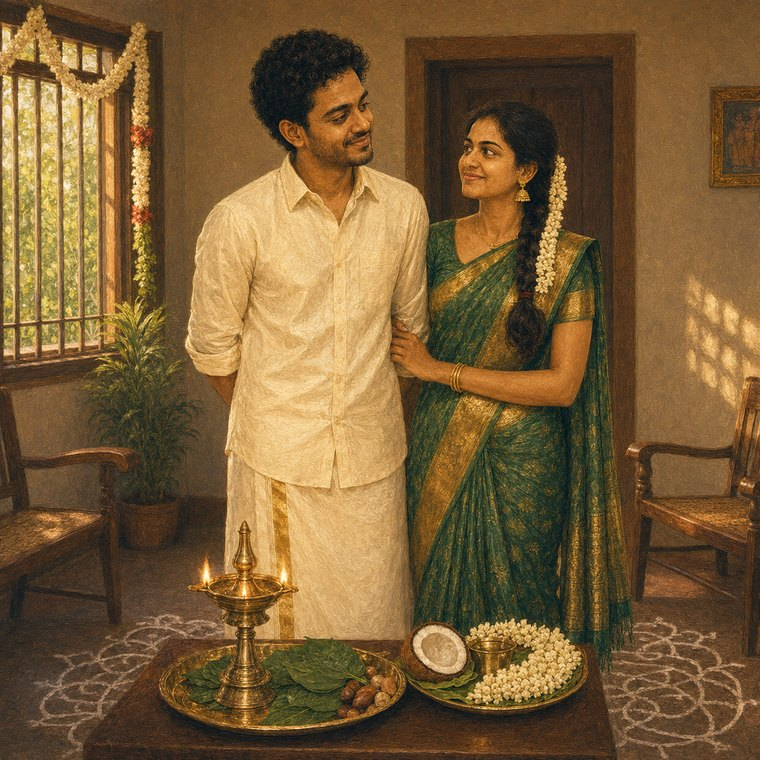
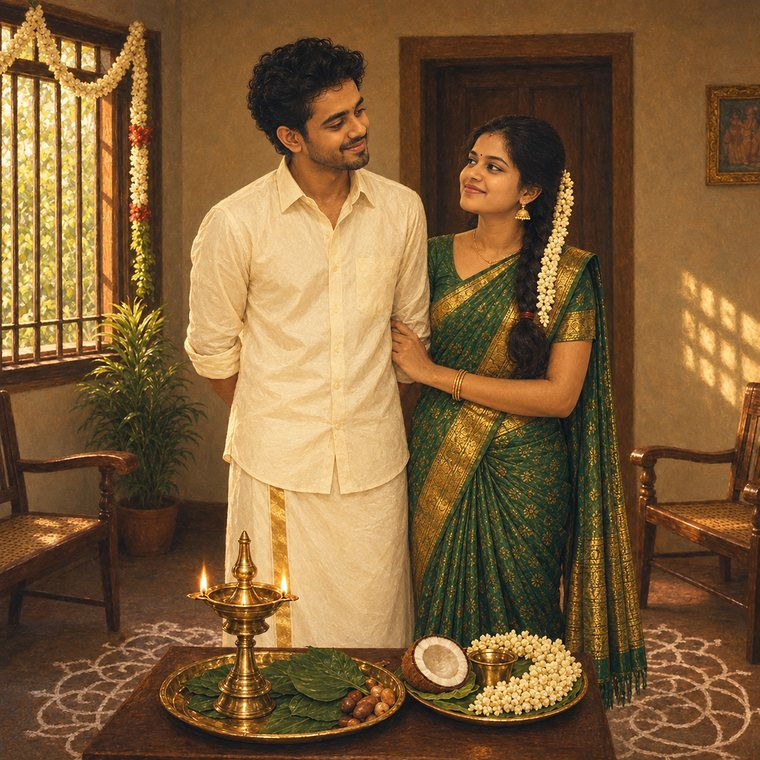
New chapter photos; engagement garland, reception bouquet and disco ball relics; slower reading star

diff --git a/index.html b/index.html
@@ -859,25 +859,30 @@
 
 <script>
 // ===================================================================== story
+// Bump this whenever a chapter photograph is replaced. The file names stay
+// the same, so without it browsers (and the local test server) keep showing
+// the copy they already have.
+const PHOTO_V = '2026-09-30b';
+
 const CHAPTERS = [
   { id:'2021-college',    yr:'2021',             t:'Where it started',
     c:'College of Engineering, Guindy. Friends first, and in no hurry about it.', n:2,
     alt:'Shiva and Meena sitting together on the steps of the red brick College of Engineering building in Guindy, books open on their laps, laughing at something between them.' },
   { id:'2022-two-cities', yr:'January\u00a02022',  t:'Two cities',
     c:'Him to Chennai, her to Bengaluru. The overnight train out of MGR\u00a0Central, and every excuse to be on it.', n:2,
-    alt:'Meena on the platform at Chennai MGR Central with the overnight train to Bengaluru behind her, bag in hand.' },
+    alt:'At Chennai MGR Central, Meena standing in the doorway of the overnight train to Bengaluru with her backpack and suitcase, smiling down at Shiva on the platform.' },
   { id:'2023-she-said-yes', yr:'2023',           t:'She said yes',
     c:'It took a while to ask. It took her less time to answer.', n:2,
     alt:'The two of them at a rooftop table at dusk, string lights and the city skyline behind, Shiva holding out a small bunch of flowers.' },
   { id:'2024-long-way',   yr:'2024',             t:'The long way round',
     c:'Calls that ran past midnight, video calls left on while we worked, weekends that turned up unannounced.', n:3,
-    alt:'Shiva and Meena walking through a lit shopping street in Bengaluru in the evening, drinks in hand and bags between them.' },
+    alt:'Three scenes: Meena laughing in surprise on a late-night video call, Shiva grinning on the other end of it, and the two of them walking through a lit Bengaluru shopping street that weekend, bubble tea and shopping bags in hand.' },
   { id:'2025-coming-home',yr:'2025',             t:'Coming home',
     c:'She moved back to Chennai. This time there were families to convince, and we did it side by side.', n:2,
     alt:'The two of them on a Chennai terrace in the afternoon, washing lines and palm trees behind, standing close and looking at each other.' },
   { id:'2026-yes',        yr:'2026',             t:'Both families said yes',
     c:'It wasn\u2019t easy. It was worth every difficult conversation.', n:2,
-    alt:'Shiva and Meena in traditional dress beside a lit brass lamp, a tray of offerings in front of them.' },
+    alt:'Shiva in a cream shirt and veshti and Meena in a green and gold silk saree with jasmine in her hair, standing together at home beside a lit brass lamp and trays of betel leaves, coconut and flowers.' },
   { id:'2026-engagement', yr:'18\u00a0June\u00a02026', t:'The engagement',
     c:'A ring, her left hand, and both families in one room at last.', n:2,
     alt:'At the engagement, Shiva slipping a ring onto Meena\u2019s left hand, both of them in garlands, she in a dark green and gold kanjivaram and he in a dusty rose kurta.' },
@@ -907,7 +912,7 @@ CHAPTERS.forEach((ch, i) => {
   relics.className = 'relics';
   for (let k = 1; k <= ch.n; k++) {
     const img = document.createElement('img');
-    img.src = 'assets/story/' + ch.id + '-relic' + k + '.png';
+    img.src = 'assets/story/' + ch.id + '-relic' + k + '.png?v=' + PHOTO_V;
     img.alt = '';
     img.loading = 'lazy';
     // A relic that hasn't been drawn yet simply isn't there, rather than
@@ -935,7 +940,7 @@ CHAPTERS.forEach((ch, i) => {
   const inside = ch.empty
     ? '<div class="shot blank" role="img" aria-label="An empty frame, waiting. ' + ch.empty + '">' +
         '<span aria-hidden="true">' + ch.empty + '</span></div>'
-    : '<div class="shot"><img src="assets/story/' + ch.id + '.jpg" width="760" height="760"' +
+    : '<div class="shot"><img src="assets/story/' + ch.id + '.jpg?v=' + PHOTO_V + '" width="760" height="760"' +
         ' alt="' + ch.alt.replace(/"/g, '&quot;') + '"' +
         (eager ? ' fetchpriority="high">' : ' loading="lazy" decoding="async">') + '</div>';
   plate.innerHTML =
@@ -1099,10 +1104,12 @@ hangs.forEach((h, i) => {
 // changes size. Every line gets its own star; they share one looping clock,
 // each lit only in its own slot, so the sequence can run forever without any
 // timers to keep in step.
-const STAR_SPEED = 190;      // px per second along a line
-const STAR_MIN = 0.7;        // seconds, even for a short line
-const STAR_GAP = 0.18;       // seconds between one line and the next
-const STAR_REST = 1.8;       // seconds of stillness before it starts over
+// Paced to reading, not to spectacle: roughly the speed an eye moves along a
+// line, so a guest can follow the star word by word.
+const STAR_SPEED = 105;      // px per second along a line
+const STAR_MIN = 1.4;        // seconds, even for a short line
+const STAR_GAP = 0.35;       // seconds between one line and the next
+const STAR_REST = 2.6;       // seconds of stillness before it starts over
 
 function textLines(el, base) {
   const rows = [];
@@ -1143,7 +1150,8 @@ function buildStars(i) {
     slots.push([t, t + d]);
     t += d + STAR_GAP;
   }
-  const total = t - STAR_GAP + STAR_REST;
+  st.pass = t - STAR_GAP;                         // one read-through, in seconds
+  const total = st.pass + STAR_REST;
   const f = x => Math.min(1, Math.max(0, x / total));
 
   lines.forEach((ln, k) => {
@@ -1162,7 +1170,7 @@ function buildStars(i) {
     const oa = f(a), ob = f(b);
     st.anims.push(head.animate([
       { offset: 0, transform: 'translateX(-100%)' },
-      { offset: oa, transform: 'translateX(-100%)', easing: 'cubic-bezier(.33,.1,.67,.95)' },
+      { offset: oa, transform: 'translateX(-100%)', easing: 'cubic-bezier(.25,.08,.6,.97)' },
       { offset: ob, transform: 'translateX(0)' },
       { offset: 1, transform: 'translateX(0)' }
     ], { duration: total * 1000, iterations: Infinity }));
@@ -1285,8 +1293,13 @@ async function play(from) {
     const c = chapters[autoIdx];
     const y = c.getBoundingClientRect().top + scrollY - (innerHeight - c.offsetHeight) / 2;
     if (!await easeTo(Math.max(0, y), 1500)) return;
-    { const k = autoIdx; setTimeout(() => { if (stars[k].built) restartStars(k); }, 300); }
-    await sleep(7200);        // long enough to read the caption and watch the star cross it
+    // Stay until the star has read the whole caption once (and never less
+    // than 7.2s), so the tour never moves on mid-sentence.
+    const k = autoIdx;
+    await sleep(300);
+    if (!autoPlaying) return;
+    startStars(k);
+    await sleep(Math.max(6900, ((stars[k].pass || 0) + 1.2) * 1000));
     if (!autoPlaying) return;
   }
   const w = document.getElementById('welcome');
